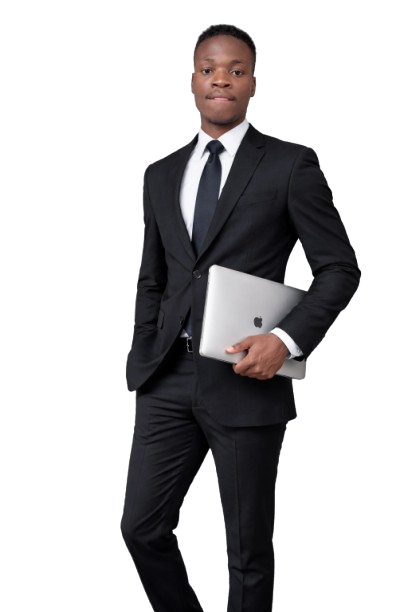
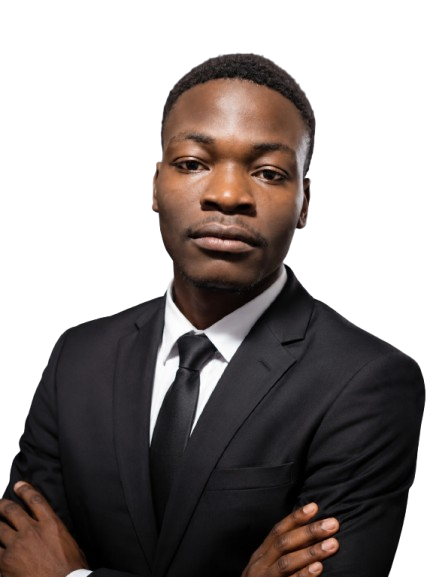
Remove unnecessary Vercel rewrites

diff --git a/src/components/contact/Contact.jsx b/src/components/contact/Contact.jsx
@@ -20,14 +20,14 @@ const contactMethods = [
   {
     icon: <FaPhoneAlt />,
     label: "Phone",
-    value: "+27 82 123 4567",
-    href: "tel:+27821234567",
+    value: "+263 776 717 471",
+    href: "tel:+263 719 692 697",
   },
   {
     icon: <FaMapMarkerAlt />,
     label: "Location",
     value: "Johannesburg, South Africa",
-    href: "https://maps.google.com/?q=Johannesburg+South+Africa",
+    href: "https://maps.google.com/?q=Harare+Zimbabwe",
   },
 ];
 
@@ -52,7 +52,8 @@ const socialLinks = [
 function Contact() {
   const handleSubmit = (event) => {
     event.preventDefault();
-    window.location.href = "mailto:munyaradzi@example.com?subject=Portfolio%20Inquiry";
+    window.location.href =
+      "mailto:munyaradzi@example.com?subject=Portfolio%20Inquiry";
   };
 
   return (
@@ -81,9 +82,9 @@ function Contact() {
           <p>LET'S CONNECT</p>
           <h2>Let’s build a brand that feels unforgettable.</h2>
           <p className="contact-intro">
-            Whether you need a polished website, a high-performing campaign, or a
-            creative collaboration, I’m ready to turn your vision into something
-            exceptional.
+            Whether you need a polished website, a high-performing campaign, or
+            a creative collaboration, I’m ready to turn your vision into
+            something exceptional.
           </p>
         </motion.div>
 
@@ -97,7 +98,8 @@ function Contact() {
           >
             <h3>Start a conversation</h3>
             <p>
-              Available for freelance projects, consulting, and creative partnerships.
+              Available for freelance projects, consulting, and creative
+              partnerships.
             </p>
 
             <div className="contact-list">
@@ -153,7 +155,10 @@ function Contact() {
             <div className="form-row">
               <label>
                 Project Type
-                <input type="text" placeholder="Website, campaign, music project" />
+                <input
+                  type="text"
+                  placeholder="Website, campaign, music project"
+                />
               </label>
             </div>
 
@@ -170,7 +175,12 @@ function Contact() {
 
             <div className="social-links">
               {socialLinks.map((link) => (
-                <a key={link.label} href={link.href} target="_blank" rel="noreferrer">
+                <a
+                  key={link.label}
+                  href={link.href}
+                  target="_blank"
+                  rel="noreferrer"
+                >
                   {link.icon}
                 </a>
               ))}

diff --git a/server/index.js b/server/index.js
@@ -15,17 +15,47 @@ const __dirname = path.dirname(__filename);
 const app = express();
 const PORT = process.env.PORT || 4000;
 
+const allowedOrigins = [
+  "http://localhost:5173",
+  "http://localhost:3000",
+
+  // Your Vercel domain
+  "https://your-vercel-project.vercel.app",
+
+  // Preview deployments
+  /\.vercel\.app$/
+];
+
 app.use(cors({
-    origin: "http://localhost:5173",
-    credentials: true
+  origin(origin, callback) {
+
+    // Allow Postman and curl
+    if (!origin) return callback(null, true);
+
+    const allowed = allowedOrigins.some(item => {
+
+      if (typeof item === "string") {
+        return item === origin;
+      }
+
+      return item.test(origin);
+    });
+
+    if (allowed) {
+      return callback(null, true);
+    }
+
+    callback(new Error("Not allowed by CORS"));
+  },
+
+  credentials: true
 }));
 
-app.use(express.json());
-
-app.use((req, res, next) => {
-    console.log(`${req.method} ${req.url}`);
-    next();
-});
+app.use(express.json({ limit: "20mb" }));
+app.use(express.urlencoded({
+    extended: true,
+    limit: "20mb"
+}));
 
 const uploadsDir = path.join(__dirname, "uploads");
 const certDir = path.join(uploadsDir, "certificates");
@@ -317,9 +347,9 @@ app.use((err, req, res, next) => {
     });
 });
 
-app.listen(PORT, () => {
+app.listen(PORT, "0.0.0.0", () => {
     console.log("==================================");
     console.log(`🚀 Portfolio Backend Running`);
-    console.log(`📍 http://localhost:${PORT}`);
+    console.log(`📍 Port ${PORT}`);
     console.log("==================================");
 });
